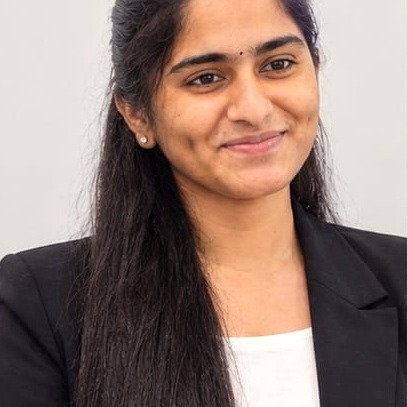
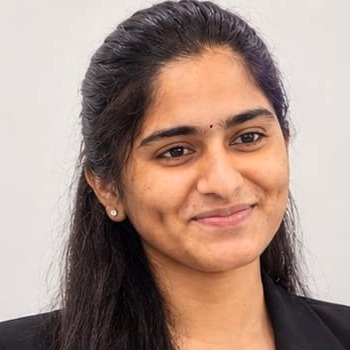
Switch to forest-green/copper palette, add corner-frame pattern, fix hero crop
- Replace the navy/champagne palette with deep bottle-green + warm
  copper (same two-color discipline, fresh hues).
- Fix the contact section's background/text to use fixed tokens
  instead of theme-relative ones — it was inverting to a light block
  in dark mode instead of staying a dark accent section.
- Add a repeated viewfinder corner-bracket motif on every portrait
  (about/experience/projects/contact) for a cohesive design pattern,
  a diamond marker on section eyebrows, and a subtle dot-grid texture
  on the hero and contact backgrounds.
- Re-crop the hero photo tighter on the face so it fills the circle
  fully instead of showing a smaller headshot with more shoulder/blazer.

diff --git a/assets/css/style.css b/assets/css/style.css
@@ -1,24 +1,28 @@
 /* ---------------------------------------------------------------
    Akhila Banoth — Portfolio
-   Two-color system only: deep navy (ink, structure, dark surfaces)
-   + champagne gold (the one accent — labels, numbers, hover states).
-   Everything else is neutral ivory/gray.
+   Two-color system only: deep bottle-green (ink, structure, dark
+   surfaces) + warm copper (the one accent — labels, numbers, hover
+   states). Everything else is neutral ivory/gray. Variable names
+   (--navy/--gold) are kept from the previous palette for structure;
+   only the hues changed.
 ---------------------------------------------------------------- */
 
 :root {
-  --bg: #f8f6f2;
+  --bg: #f7f5ee;
   --surface: #ffffff;
-  --surface-2: #efe9dd;
-  --navy: #1b2340;
-  --navy-soft: #313a5c;
+  --surface-2: #ece6d6;
+  --navy: #1a332c;
+  --navy-soft: #2f4a41;
   --ink: var(--navy);
-  --muted: #5e6479;
-  --gold: #ad8547;
-  --gold-strong: #8c6a34;
-  --gold-soft: #ddbd82;
-  --gold-ink: #2a1f0c;
-  --line: #e4ddcd;
-  --shadow: 0 24px 48px -28px rgba(27, 35, 64, 0.35);
+  --muted: #5b6b63;
+  --gold: #bb6b3c;
+  --gold-strong: #984f26;
+  --gold-soft: #e2a273;
+  --gold-ink: #2a1408;
+  --line: #ddd6c2;
+  --shadow: 0 24px 48px -28px rgba(26, 51, 44, 0.35);
+  --contact-bg: #14251f;
+  --contact-text: #f7f5ee;
   --radius-lg: 22px;
   --radius-md: 14px;
   --radius-sm: 8px;
@@ -29,36 +33,36 @@
 
 @media (prefers-color-scheme: dark) {
   :root:not([data-theme="light"]) {
-    --bg: #10131d;
-    --surface: #171b29;
-    --surface-2: #1d2231;
-    --navy: #f2f0ea;
-    --navy-soft: #cac6d6;
+    --bg: #0f1613;
+    --surface: #161f1a;
+    --surface-2: #1c2621;
+    --navy: #eef3ee;
+    --navy-soft: #c7d6cd;
     --ink: var(--navy);
-    --muted: #a6abb9;
-    --gold: #d6b16e;
-    --gold-strong: #e8c88c;
-    --gold-soft: #e8c88c;
-    --gold-ink: #201703;
-    --line: #2a2f3f;
+    --muted: #9fb0a7;
+    --gold: #e2925a;
+    --gold-strong: #f0ab7c;
+    --gold-soft: #f0ab7c;
+    --gold-ink: #241203;
+    --line: #29332d;
     --shadow: 0 24px 48px -20px rgba(0, 0, 0, 0.6);
     color-scheme: dark;
   }
 }
 
 :root[data-theme="dark"] {
-  --bg: #10131d;
-  --surface: #171b29;
-  --surface-2: #1d2231;
-  --navy: #f2f0ea;
-  --navy-soft: #cac6d6;
+  --bg: #0f1613;
+  --surface: #161f1a;
+  --surface-2: #1c2621;
+  --navy: #eef3ee;
+  --navy-soft: #c7d6cd;
   --ink: var(--navy);
-  --muted: #a6abb9;
-  --gold: #d6b16e;
-  --gold-strong: #e8c88c;
-  --gold-soft: #e8c88c;
-  --gold-ink: #201703;
-  --line: #2a2f3f;
+  --muted: #9fb0a7;
+  --gold: #e2925a;
+  --gold-strong: #f0ab7c;
+  --gold-soft: #f0ab7c;
+  --gold-ink: #241203;
+  --line: #29332d;
   --shadow: 0 24px 48px -20px rgba(0, 0, 0, 0.6);
   color-scheme: dark;
 }
@@ -211,9 +215,23 @@ em { font-style: italic; color: var(--gold-strong); }
 
 /* ---------------- Hero ---------------- */
 
-.hero { padding-top: 56px; overflow: hidden; }
+.hero { padding-top: 56px; overflow: hidden; position: relative; }
+
+.hero::before {
+  content: "";
+  position: absolute;
+  inset: 0;
+  background-image: radial-gradient(var(--gold) 1.4px, transparent 1.4px);
+  background-size: 26px 26px;
+  background-position: -6px -6px;
+  -webkit-mask-image: linear-gradient(180deg, black, transparent 78%);
+  mask-image: linear-gradient(180deg, black, transparent 78%);
+  opacity: 0.09;
+  pointer-events: none;
+}
 
 .hero__inner {
+  position: relative;
   display: grid;
   grid-template-columns: 1.2fr 0.8fr;
   gap: 48px;
@@ -234,10 +252,12 @@ em { font-style: italic; color: var(--gold-strong); }
 }
 .eyebrow::before {
   content: "";
-  width: 22px;
-  height: 1px;
-  background: var(--gold);
+  width: 8px;
+  height: 8px;
+  border: 1.5px solid var(--gold);
+  transform: rotate(45deg);
   display: inline-block;
+  flex: none;
 }
 
 .hero__title {
@@ -473,11 +493,41 @@ section { padding-block: 88px; }
   text-transform: uppercase;
   color: var(--gold-strong);
   margin: 0 0 12px;
+  display: flex;
+  align-items: center;
+  gap: 10px;
+}
+.section-eyebrow::before {
+  content: "";
+  width: 8px;
+  height: 8px;
+  border: 1.5px solid currentColor;
+  transform: rotate(45deg);
+  display: inline-block;
+  flex: none;
 }
 
 .section-eyebrow--onaccent { color: var(--gold); opacity: 0.9; }
 
 .section-title { font-size: clamp(1.7rem, 3vw, 2.3rem); margin-bottom: 36px; }
+
+/* ---------------- Decorative frame corners ----------------
+   A repeated viewfinder-corner motif on every portrait, tying
+   the photos together as one visual pattern across sections. */
+
+.framed { position: relative; }
+.framed::before,
+.framed::after {
+  content: "";
+  position: absolute;
+  width: 26px;
+  height: 26px;
+  border: 2px solid var(--gold);
+  pointer-events: none;
+  z-index: 2;
+}
+.framed::before { top: -9px; left: -9px; border-right: none; border-bottom: none; }
+.framed::after { bottom: -9px; right: -9px; border-left: none; border-top: none; }
 
 /* ---------------- About ---------------- */
 
@@ -748,7 +798,7 @@ section { padding-block: 88px; }
 
 /* ---------------- Contact ---------------- */
 
-.contact { background: var(--ink); color: var(--bg); position: relative; overflow: hidden; }
+.contact { background: var(--contact-bg); color: var(--contact-text); position: relative; overflow: hidden; }
 
 .contact::before {
   content: "";
@@ -758,6 +808,16 @@ section { padding-block: 88px; }
   width: 60%;
   aspect-ratio: 1;
   background: radial-gradient(circle, color-mix(in srgb, var(--gold) 22%, transparent) 0%, transparent 70%);
+  pointer-events: none;
+}
+
+.contact::after {
+  content: "";
+  position: absolute;
+  inset: 0;
+  background-image: radial-gradient(var(--contact-text) 1.4px, transparent 1.4px);
+  background-size: 26px 26px;
+  opacity: 0.05;
   pointer-events: none;
 }
 
@@ -778,9 +838,9 @@ section { padding-block: 88px; }
   object-position: top center;
 }
 
-.contact__title { font-size: clamp(1.9rem, 3.6vw, 2.6rem); color: var(--bg); }
+.contact__title { font-size: clamp(1.9rem, 3.6vw, 2.6rem); color: var(--contact-text); }
 
-.contact__lede { color: color-mix(in srgb, var(--bg) 70%, transparent); max-width: 46ch; margin-top: 16px; }
+.contact__lede { color: color-mix(in srgb, var(--contact-text) 70%, transparent); max-width: 46ch; margin-top: 16px; }
 
 .contact-list { list-style: none; margin: 32px 0 0; padding: 0; display: flex; flex-direction: column; gap: 16px; }
 
@@ -789,7 +849,7 @@ section { padding-block: 88px; }
   align-items: baseline;
   gap: 16px;
   padding-bottom: 16px;
-  border-bottom: 1px solid color-mix(in srgb, var(--bg) 18%, transparent);
+  border-bottom: 1px solid color-mix(in srgb, var(--contact-text) 18%, transparent);
 }
 
 .contact-list__label {
@@ -797,13 +857,13 @@ section { padding-block: 88px; }
   font-size: 0.75rem;
   text-transform: uppercase;
   letter-spacing: 0.05em;
-  color: color-mix(in srgb, var(--bg) 55%, transparent);
+  color: color-mix(in srgb, var(--contact-text) 55%, transparent);
   width: 90px;
   flex: none;
 }
 
 .contact-list a {
-  color: var(--bg);
+  color: var(--contact-text);
   text-decoration: none;
   font-size: 1.05rem;
   font-weight: 600;

diff --git a/index.html b/index.html
@@ -56,7 +56,7 @@
       <div class="hero__portrait hero-in hero-in--5">
         <div class="portrait-ring" aria-hidden="true"></div>
         <div class="portrait-frame">
-          <img src="assets/img/hero.jpg" alt="Portrait of Akhila Banoth" width="407" height="407" />
+          <img src="assets/img/hero.jpg" alt="Portrait of Akhila Banoth" width="350" height="350" />
         </div>
         <div class="portrait-badge">
           <span class="portrait-badge__num">2+</span>
@@ -98,7 +98,7 @@
   <!-- ABOUT -->
   <section class="about" id="about">
     <div class="wrap about__inner">
-      <div class="about__media">
+      <div class="about__media framed">
         <img src="assets/img/about.jpg" alt="Akhila Banoth smiling outdoors" width="407" height="543" />
       </div>
       <div class="about__content">
@@ -187,7 +187,7 @@
         </article>
       </div>
 
-      <div class="experience__media">
+      <div class="experience__media framed">
         <img src="assets/img/experience.jpg" alt="Akhila Banoth working at her desk with dual monitors" width="400" height="499" />
       </div>
     </div>
@@ -197,7 +197,7 @@
   <section class="projects" id="projects">
     <div class="wrap">
       <div class="projects__intro">
-        <div class="projects__media">
+        <div class="projects__media framed">
           <img src="assets/img/projects.jpg" alt="Akhila Banoth coding at her desk" width="447" height="559" />
         </div>
         <div>
@@ -303,7 +303,7 @@
   <!-- CONTACT -->
   <section class="contact" id="contact">
     <div class="wrap contact__inner">
-      <div class="contact__media">
+      <div class="contact__media framed">
         <img src="assets/img/contact.jpg" alt="Akhila Banoth walking, holding her laptop" width="378" height="504" />
       </div>
       <div class="contact__content">
